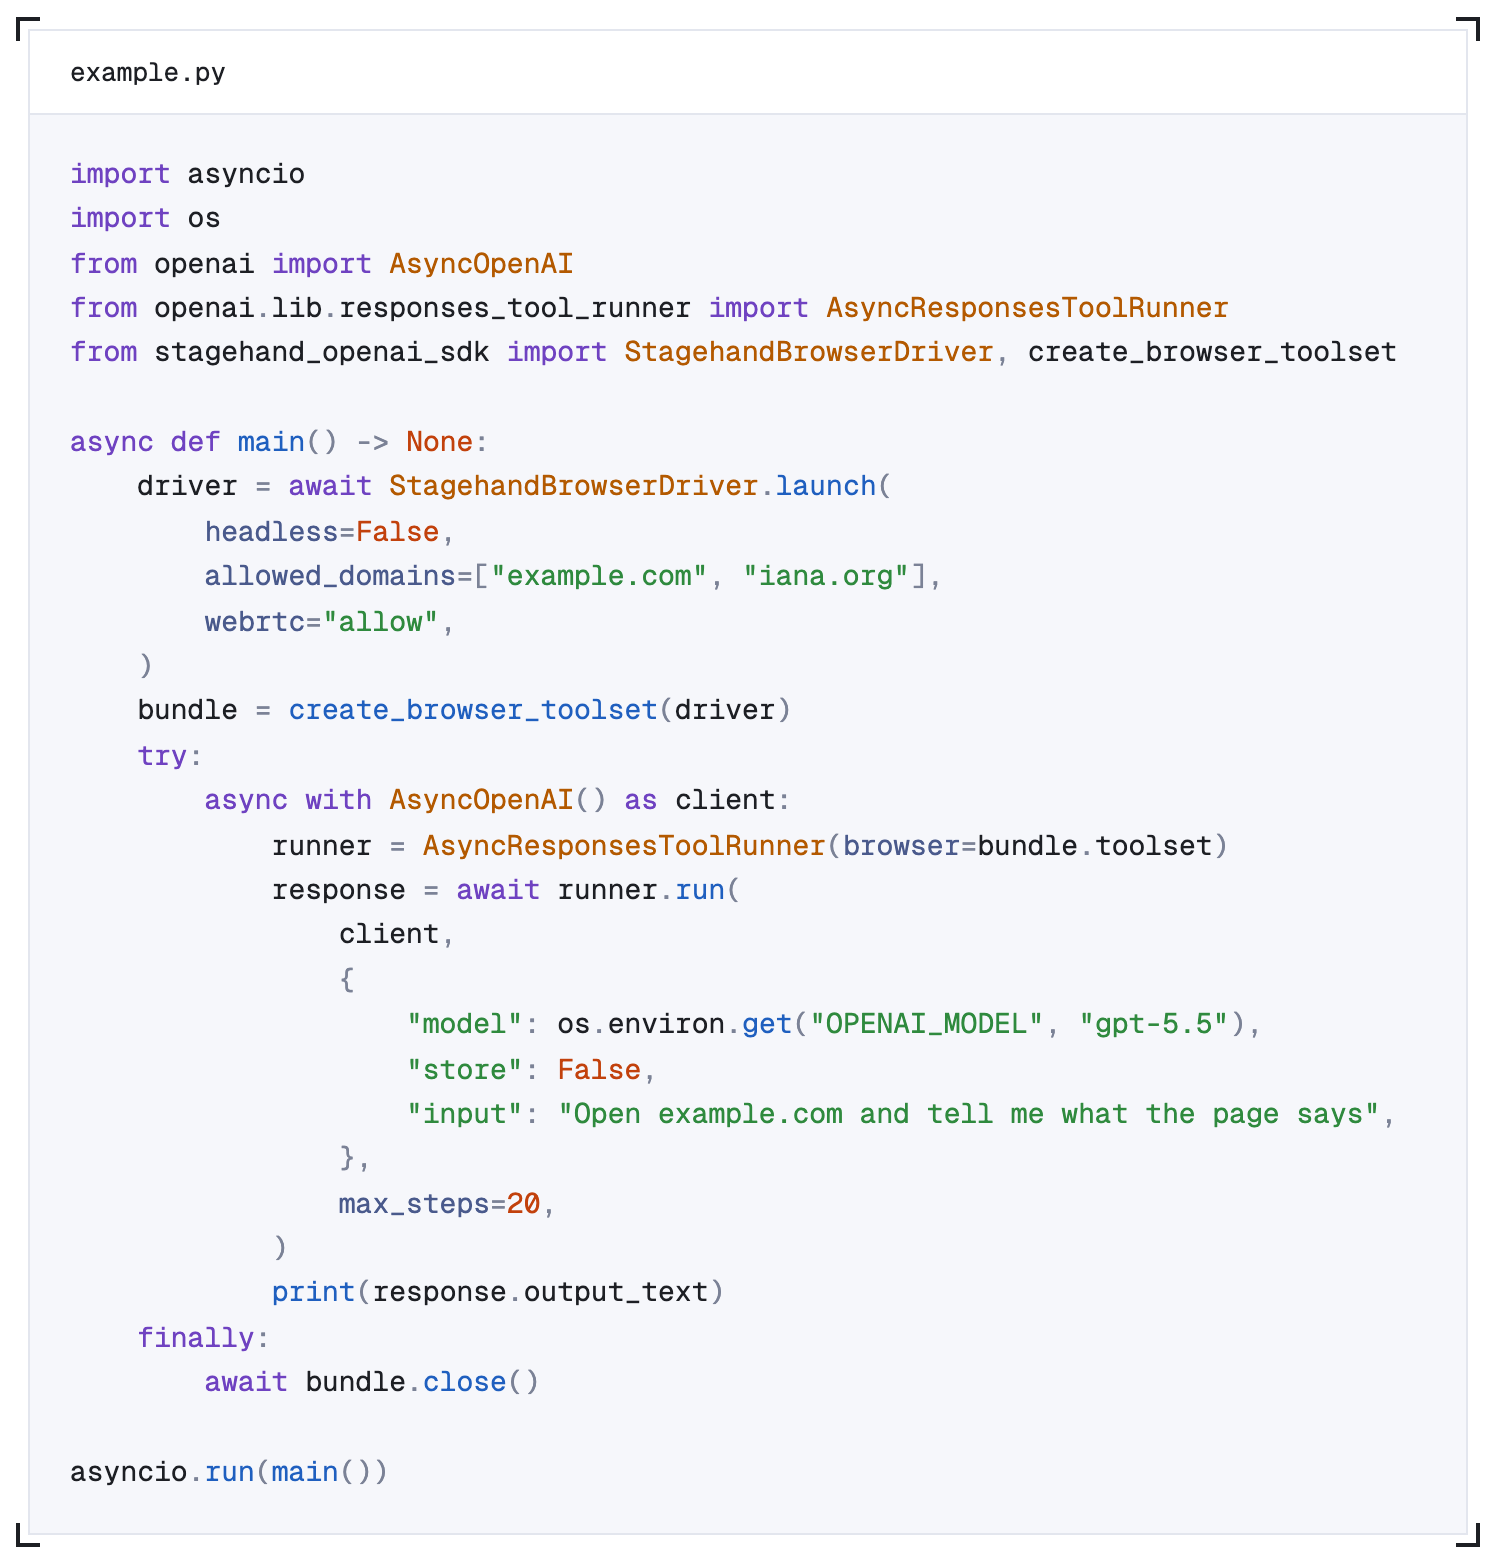
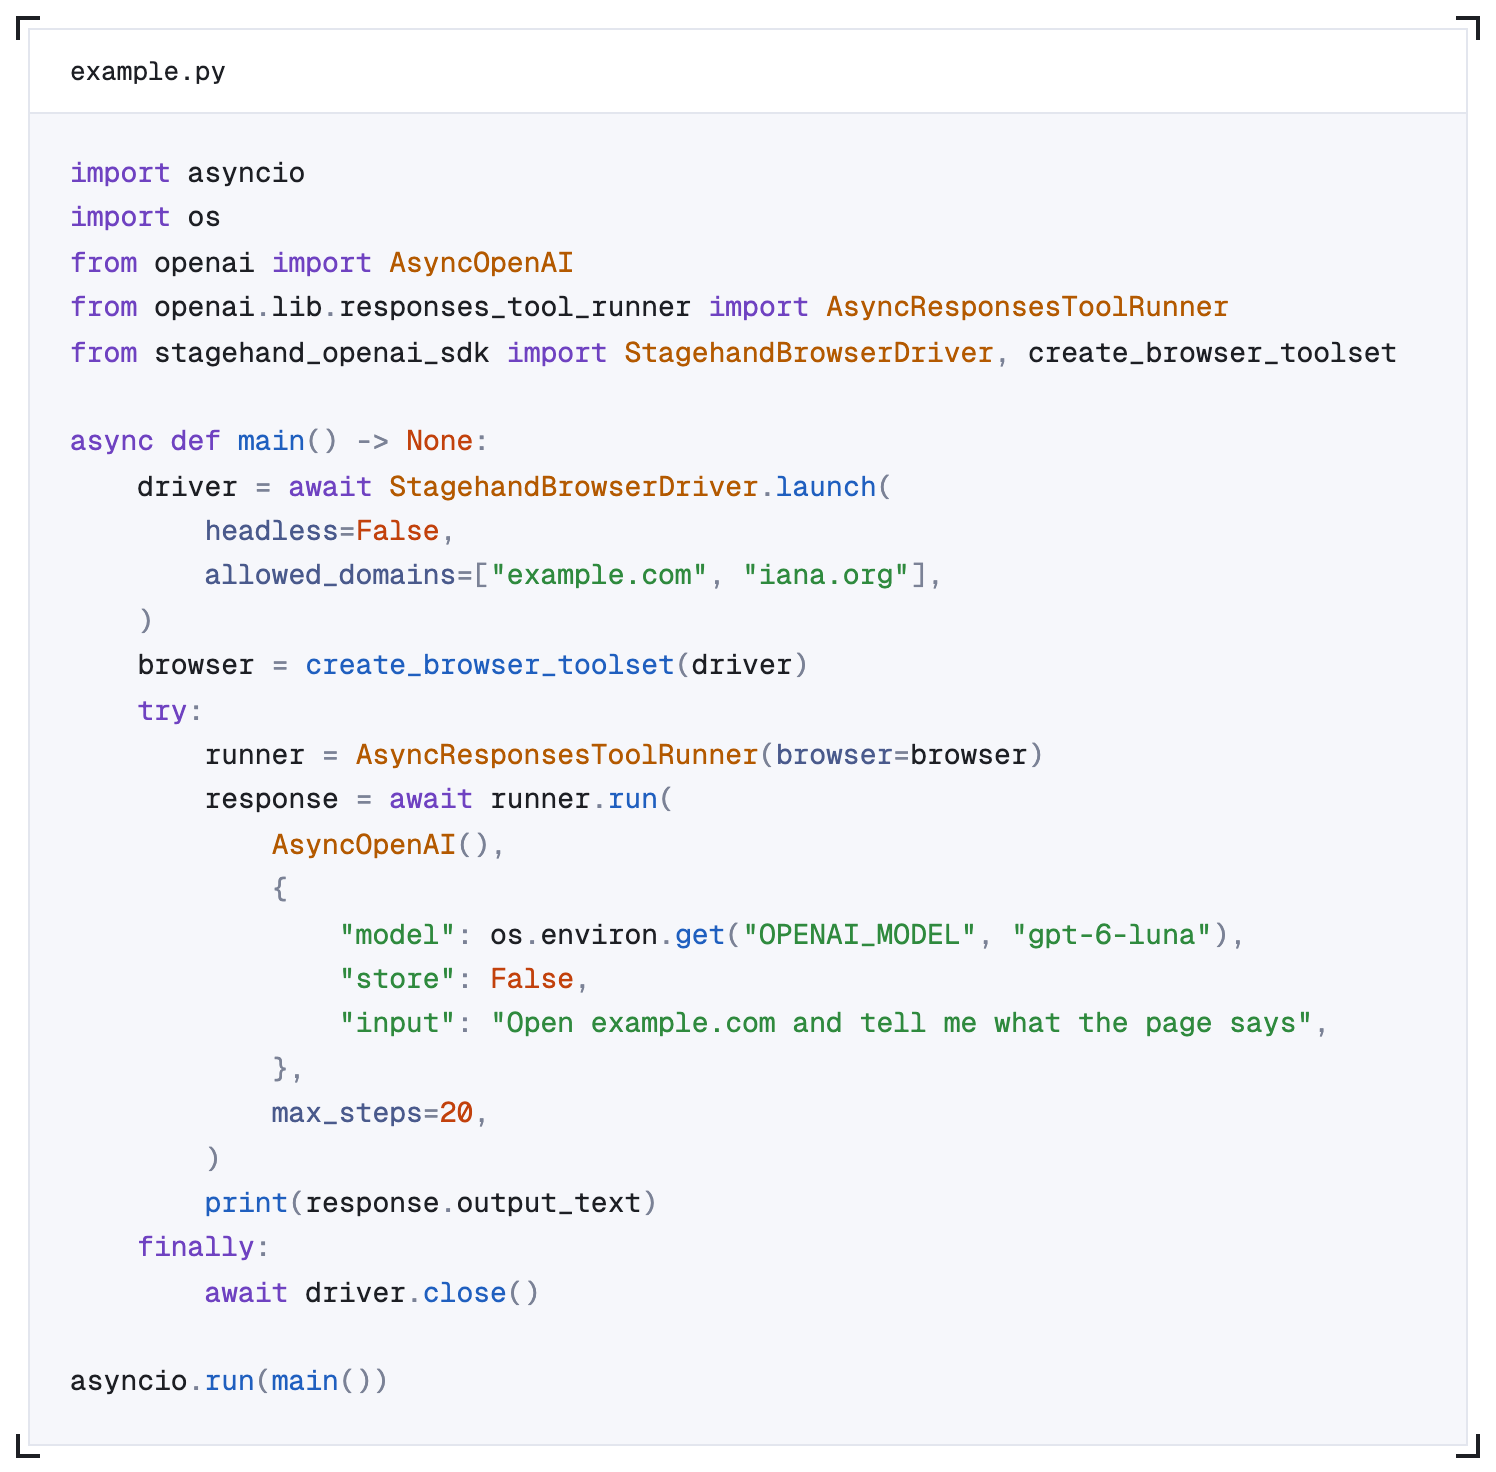
Use the final stagehand-openai-sdk API
createBrowserToolset returns OpenAI's BrowserToolset, driver.close() releases
the browser, gpt-6-luna is the default model, and the snippet images match
the examples.

diff --git a/typescript/example.ts b/typescript/example.ts
@@ -8,17 +8,15 @@ import {
 const driver = await StagehandBrowserDriver.launch({
   headless: false,
   allowedDomains: ["example.com", "iana.org"],
-  webrtc: "allow",
 });
-
 const browser = createBrowserToolset(driver);
 
 try {
-  const runner = new ResponsesToolRunner({ browser: browser.toolset });
+  const runner = new ResponsesToolRunner({ browser });
   const response = await runner.run(
     new OpenAI(),
     {
-      model: process.env.OPENAI_MODEL ?? "gpt-5.5",
+      model: process.env.OPENAI_MODEL ?? "gpt-6-luna",
       store: false,
       input: "Open example.com and tell me what the page says",
     },
@@ -26,5 +24,5 @@ try {
   );
   console.log(response.output_text);
 } finally {
-  await browser.close();
+  await driver.close();
 }

diff --git a/python/example.py b/python/example.py
@@ -10,24 +10,22 @@ async def main() -> None:
     driver = await StagehandBrowserDriver.launch(
         headless=False,
         allowed_domains=["example.com", "iana.org"],
-        webrtc="allow",
     )
-    bundle = create_browser_toolset(driver)
+    browser = create_browser_toolset(driver)
     try:
-        async with AsyncOpenAI() as client:
-            runner = AsyncResponsesToolRunner(browser=bundle.toolset)
-            response = await runner.run(
-                client,
-                {
-                    "model": os.environ.get("OPENAI_MODEL", "gpt-5.5"),
-                    "store": False,
-                    "input": "Open example.com and tell me what the page says",
-                },
-                max_steps=20,
-            )
-            print(response.output_text)
+        runner = AsyncResponsesToolRunner(browser=browser)
+        response = await runner.run(
+            AsyncOpenAI(),
+            {
+                "model": os.environ.get("OPENAI_MODEL", "gpt-6-luna"),
+                "store": False,
+                "input": "Open example.com and tell me what the page says",
+            },
+            max_steps=20,
+        )
+        print(response.output_text)
     finally:
-        await bundle.close()
+        await driver.close()
 
 
 if __name__ == "__main__":

diff --git a/python/README.md b/python/README.md
@@ -6,7 +6,7 @@ Run an async GPT browser task with the OpenAI SDK and the `stagehand-openai-sdk`
 
 - Python 3.11 or later and uv.
 - Google Chrome for local execution, or a Browserbase API key for a hosted browser.
-- An OpenAI API key with access to `gpt-5.5`, or another model you set with `OPENAI_MODEL`.
+- An OpenAI API key with access to `gpt-6-luna`, or another model you set with `OPENAI_MODEL`.
 
 ## Install and run
 
@@ -15,7 +15,7 @@ Run these commands from this repository's `python` directory:
 ```bash
 uv sync
 cp .env.example .env
-# Set OPENAI_API_KEY in .env (and OPENAI_MODEL to use a model other than gpt-5.5)
+# Set OPENAI_API_KEY in .env (and OPENAI_MODEL to use a model other than gpt-6-luna)
 uv run --env-file .env python example.py
 ```
 
@@ -31,6 +31,7 @@ import os
 
 from openai import AsyncOpenAI
 from openai.lib.responses_tool_runner import AsyncResponsesToolRunner
+
 from stagehand_openai_sdk import StagehandBrowserDriver, create_browser_toolset
 
 
@@ -38,33 +39,30 @@ async def main() -> None:
     driver = await StagehandBrowserDriver.launch(
         headless=False,
         allowed_domains=["example.com", "iana.org"],
-        webrtc="allow",
     )
-    bundle = create_browser_toolset(driver)
+    browser = create_browser_toolset(driver)
     try:
-        async with AsyncOpenAI() as client:
-            runner = AsyncResponsesToolRunner(browser=bundle.toolset)
-            response = await runner.run(
-                client,
-                {
-                    "model": os.environ.get("OPENAI_MODEL", "gpt-5.5"),
-                    "store": False,
-                    "input": "Open example.com and tell me what the page says",
-                },
-                max_steps=20,
-            )
-            print(response.output_text)
+        runner = AsyncResponsesToolRunner(browser=browser)
+        response = await runner.run(
+            AsyncOpenAI(),
+            {
+                "model": os.environ.get("OPENAI_MODEL", "gpt-6-luna"),
+                "store": False,
+                "input": "Open example.com and tell me what the page says",
+            },
+            max_steps=20,
+        )
+        print(response.output_text)
     finally:
-        await bundle.close()
+        await driver.close()
 
 
 if __name__ == "__main__":
     asyncio.run(main())
 ```
 
-- `create_browser_toolset(driver)` returns a bundle with `toolset`, `members`, `confirm`, `url_policy` and `close()`. With no options it advertises the default members, derives a `url_policy` from the domain lists, and uses the default `confirm`, which approves every default member while the browser is alive.
-- `bundle.close()` stops the toolset, then closes the driver and only what the driver created (the Chrome process here).
-- `webrtc="allow"` turns off an experimental WebRTC guard that is being removed from the driver.
+- `create_browser_toolset(driver)` returns OpenAI's `AsyncBrowserToolset`. With no options it advertises the default members, derives a `url_policy` from the domain lists, and uses the default `confirm`, which approves every default member while the browser is alive.
+- `driver.close()` releases the browser, and only what the driver created (the Chrome process here). The toolset never closes the driver.
 - The driver is async only, so it pairs with `AsyncOpenAI` and `AsyncResponsesToolRunner`.
 
 Edit the task in `input`, or set `OPENAI_MODEL` in `.env` to change the model. Set `headless=True` to run without a visible Chrome window, and update `allowed_domains` for your task's websites.
@@ -79,11 +77,10 @@ Replace the `StagehandBrowserDriver.launch` call inside `main` with:
 driver = await StagehandBrowserDriver.browserbase(
     api_key=os.environ["BROWSERBASE_API_KEY"],
     allowed_domains=["example.com", "iana.org"],
-    webrtc="allow",
 )
 ```
 
-Keep the runner and `finally` block, then run `uv run --env-file .env python example.py` again. Browserbase creates the browser session, so you don't need local Chrome. `bundle.close()` releases the session.
+Keep the runner and `finally` block, then run `uv run --env-file .env python example.py` again. Browserbase creates the browser session, so you don't need local Chrome. `driver.close()` releases the session.
 
 ## Enable optional tools
 
@@ -118,11 +115,10 @@ async def confirm(ctx: dict, **_) -> bool:
 driver = await StagehandBrowserDriver.launch(
     headless=False,
     allowed_domains=["example.com"],
-    webrtc="allow",
     # upload_file reads only files under these directories
     uploads=UploadOptions(roots=["/absolute/path/to/uploads"], resolve_grant=resolve_upload),
 )
-bundle = create_browser_toolset(
+browser = create_browser_toolset(
     driver,
     additional_members=["click_at", "set_checked", "run_script", "upload_file"],
     confirm=confirm,

diff --git a/AGENTS.md b/AGENTS.md
@@ -56,7 +56,7 @@ cd typescript && pnpm install       # or: cd python && uv sync
 cp .env.example .env
 ```
 
-Ask the user to open `.env` and set `OPENAI_API_KEY`, plus `BROWSERBASE_API_KEY` if they chose Browserbase. The example runs `gpt-5.5` unless `OPENAI_MODEL` is set; ask which model they want and, if it isn't `gpt-5.5`, have them uncomment `OPENAI_MODEL` in `.env` and set it. Keys come from https://platform.openai.com/api-keys and https://www.browserbase.com. `.env` is gitignored in both directories.
+Ask the user to open `.env` and set `OPENAI_API_KEY`, plus `BROWSERBASE_API_KEY` if they chose Browserbase. The example runs `gpt-6-luna` unless `OPENAI_MODEL` is set; ask which model they want and, if it isn't `gpt-6-luna`, have them uncomment `OPENAI_MODEL` in `.env` and set it. Keys come from https://platform.openai.com/api-keys and https://www.browserbase.com. `.env` is gitignored in both directories.
 
 Confirm that a key is set without printing it. This prints only a count; `1` means the key is present:
 
@@ -66,7 +66,7 @@ grep -c '^OPENAI_API_KEY=..' .env
 
 ### 4. Switch to Browserbase (only if chosen)
 
-Replace the `StagehandBrowserDriver.launch(...)` call in the example with the Browserbase variant shown in that language's README ("Use Browserbase" section). Keep `allowedDomains` / `allowed_domains` and `webrtc`. Everything else stays the same.
+Replace the `StagehandBrowserDriver.launch(...)` call in the example with the Browserbase variant shown in that language's README ("Use Browserbase" section). Keep `allowedDomains` / `allowed_domains`. Everything else stays the same.
 
 ### 5. Run the example
 
@@ -110,9 +110,9 @@ uv add 'openai>=3.31.0' stagehand-openai-sdk            # Python (import as stag
 The pattern is the same as the example:
 
 - Create one `StagehandBrowserDriver` per task with `launch`, `connect` or `browserbase`.
-- Build the toolset with `createBrowserToolset(driver, options?)` / `create_browser_toolset(driver, ...)`. It returns a bundle: `toolset`, `members`, `confirm`, `urlPolicy` / `url_policy`, and `close()`.
-- Pass `bundle.toolset` as `browser` to `new ResponsesToolRunner({ browser })` / `AsyncResponsesToolRunner(browser=...)`, then call `runner.run(client, { model, store: false, input }, { maxSteps })`.
-- Close the bundle in `finally`. It stops the toolset, then closes the driver and only what the driver created. The tool runner never closes it.
+- Build the toolset with `createBrowserToolset(driver, options?)` / `create_browser_toolset(driver, ...)`. It returns OpenAI's own `BrowserToolset` / `AsyncBrowserToolset`.
+- Pass it as `browser` to `new ResponsesToolRunner({ browser })` / `AsyncResponsesToolRunner(browser=...)`, then call `runner.run(client, { model, store: false, input }, { maxSteps })`.
+- Call `await driver.close()` in `finally`. It releases the browser, and only what the driver created. The toolset and the tool runner never close it.
 
 The Python driver is async only, so use `AsyncOpenAI` and `AsyncResponsesToolRunner`. In TypeScript keep a single copy of `openai` in the dependency tree: the driver raises the SDK's own error class, and a second copy turns every refusal into a generic failure.
 
@@ -130,7 +130,6 @@ Useful options for `StagehandBrowserDriver.launch`:
 | Option | Purpose |
 | --- | --- |
 | `allowedDomains` / `blockedDomains` | Restrict where the browser may go, enforced inside the browser. Blocked entries win. |
-| `webrtc` | Keep `"allow"`, as in the examples. It turns off an experimental WebRTC guard that is being removed. |
 | `headless` | `false` to watch, `true` for servers. |
 | `chromePath` | Use a specific Chromium-based browser. |
 | `viewport` | Page size for screenshots and coordinates (default 1280x720). |
@@ -155,7 +154,7 @@ Useful options for `StagehandBrowserDriver.launch`:
 | Package exports or attributes missing | The installed OpenAI SDK predates the browser toolset helpers. Reinstall with `pnpm install` or `uv sync`. |
 | `TypeError` or throw when selecting `run_script` / file members | Pass your own `confirm`. |
 | The run stops before answering | It hit the step limit. Raise `maxSteps` / `max_steps`. |
-| Browser connection lost mid-run | Close the bundle and create a new driver; a session isn't reused after its browser dies. |
+| Browser connection lost mid-run | Close the driver and create a new one; a session isn't reused after its browser dies. |
 | Downloads don't appear on Browserbase | Expected: `download_file` isn't available in Browserbase sessions. |
 
 ## Why Stagehand as the driver

diff --git a/typescript/README.md b/typescript/README.md
@@ -6,7 +6,7 @@ Run a GPT browser task with the OpenAI SDK and the `stagehand-openai-sdk` npm pa
 
 - Node.js 22.18 or later and pnpm.
 - Google Chrome for local execution, or a Browserbase API key for a hosted browser.
-- An OpenAI API key with access to `gpt-5.5`, or another model you set with `OPENAI_MODEL`.
+- An OpenAI API key with access to `gpt-6-luna`, or another model you set with `OPENAI_MODEL`.
 
 ## Install and run
 
@@ -15,7 +15,7 @@ Run these commands from this repository's `typescript` directory:
 ```bash
 pnpm install
 cp .env.example .env
-# Set OPENAI_API_KEY in .env (and OPENAI_MODEL to use a model other than gpt-5.5)
+# Set OPENAI_API_KEY in .env (and OPENAI_MODEL to use a model other than gpt-6-luna)
 pnpm example
 ```
 
@@ -36,17 +36,16 @@ import {
 const driver = await StagehandBrowserDriver.launch({
   headless: false,
   allowedDomains: ["example.com", "iana.org"],
-  webrtc: "allow",
 });
 
 const browser = createBrowserToolset(driver);
 
 try {
-  const runner = new ResponsesToolRunner({ browser: browser.toolset });
+  const runner = new ResponsesToolRunner({ browser });
   const response = await runner.run(
     new OpenAI(),
     {
-      model: process.env.OPENAI_MODEL ?? "gpt-5.5",
+      model: process.env.OPENAI_MODEL ?? "gpt-6-luna",
       store: false,
       input: "Open example.com and tell me what the page says",
     },
@@ -54,13 +53,12 @@ try {
   );
   console.log(response.output_text);
 } finally {
-  await browser.close();
+  await driver.close();
 }
 ```
 
-- `createBrowserToolset(driver)` returns `{ toolset, members, confirm, urlPolicy, close }`. With no options it advertises the default members, derives a `urlPolicy` from the domain lists, and uses the default `confirm`, which approves every default member while the browser is alive.
-- `browser.close()` stops the toolset, then closes the driver and only what the driver created (the Chrome process here).
-- `webrtc: "allow"` turns off an experimental WebRTC guard that is being removed from the driver.
+- `createBrowserToolset(driver)` returns OpenAI's `BrowserToolset`. With no options it advertises the default members, derives a `urlPolicy` from the domain lists, and uses the default `confirm`, which approves every default member while the browser is alive.
+- `driver.close()` releases the browser, and only what the driver created (the Chrome process here). The toolset never closes the driver.
 
 Edit the task in `input`, or set `OPENAI_MODEL` in `.env` to change the model. Set `headless: true` to run without a visible Chrome window, and update `allowedDomains` for your task's websites.
 
@@ -77,11 +75,10 @@ if (!apiKey) throw new Error("Set BROWSERBASE_API_KEY before running this exampl
 const driver = await StagehandBrowserDriver.browserbase({
   apiKey,
   allowedDomains: ["example.com", "iana.org"],
-  webrtc: "allow",
 });
 ```
 
-Keep the runner and `finally` block, then run `pnpm example` again. Browserbase creates the browser session, so you don't need local Chrome. `browser.close()` releases the session.
+Keep the runner and `finally` block, then run `pnpm example` again. Browserbase creates the browser session, so you don't need local Chrome. `driver.close()` releases the session.
 
 ## Enable optional tools
 
@@ -102,7 +99,6 @@ Add opt-ins with `additionalMembers`, or pass the exact set with `members` (not 
 const driver = await StagehandBrowserDriver.launch({
   headless: false,
   allowedDomains: ["example.com"],
-  webrtc: "allow",
   uploads: {
     roots: ["/absolute/path/to/uploads"], // upload_file reads only files under these directories
     resolveGrant: async (grantId) => (grantId === "report" ? { path: "/absolute/path/to/uploads/report.pdf" } : null),

diff --git a/README.md b/README.md
@@ -22,7 +22,7 @@ This repository contains TypeScript and Python examples that import the publishe
 | TypeScript | [TypeScript quickstart](typescript/README.md) | Node.js 22.18+ and pnpm | [npm](https://www.npmjs.com/package/stagehand-openai-sdk) |
 | Python | [Python quickstart](python/README.md) | Python 3.11+ and uv | [PyPI](https://pypi.org/project/stagehand-openai-sdk/) |
 
-Both examples open `example.com`, ask the model what the page says, and print its answer. You'll need an OpenAI API key and access to the model you run (`gpt-5.5` by default; set `OPENAI_MODEL` to change it).
+Both examples open `example.com`, ask the model what the page says, and print its answer. You'll need an OpenAI API key and access to the model you run (`gpt-6-luna` by default; set `OPENAI_MODEL` to change it).
 
 ```bash
 git clone https://github.com/browserbase/openai-cua-toolset.git
@@ -38,7 +38,7 @@ Using a coding agent? Point it at [AGENTS.md](AGENTS.md) and it will set up and 
 - **Local Chrome:** Run the examples as written. They launch a visible Chrome window, so install Google Chrome first.
 - **Browserbase:** Run without local Chrome by replacing `StagehandBrowserDriver.launch` with `StagehandBrowserDriver.browserbase` and providing a Browserbase API key. Both language guides include the replacement code.
 
-Keep the same driver throughout the tool loop. Close it when the task finishes or fails: `browser.close()` / `bundle.close()` stops the toolset and then the driver. The OpenAI tool runner doesn't close it for you.
+Keep the same driver throughout the tool loop. Close it when the task finishes or fails with `driver.close()`; the toolset and the tool runner never close it.
 
 ## Adapt the example
 
@@ -55,7 +55,7 @@ Change the task in `input` and set the model with `OPENAI_MODEL` (or directly in
 | Consent hook | `confirm` | `confirm` (`async def`) |
 | Chrome executable | `chromePath` | `chrome_path` |
 | Step limit | `{ maxSteps: 20 }` | `max_steps=20` |
-| Cleanup | `await browser.close()` in `finally` | `await bundle.close()` in `finally` |
+| Cleanup | `await driver.close()` in `finally` | `await driver.close()` in `finally` |
 
 ## Limitations
 
